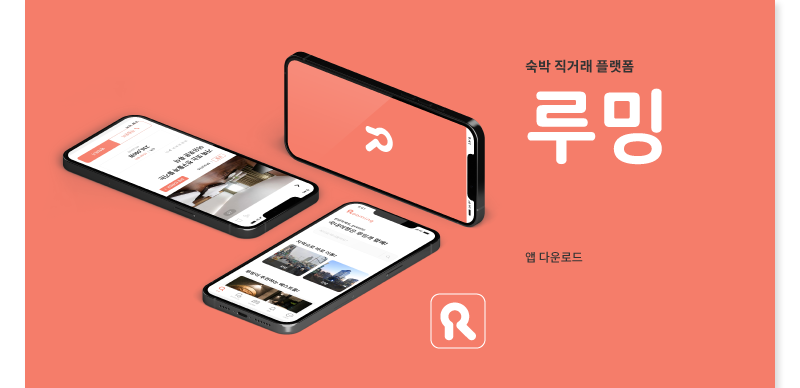
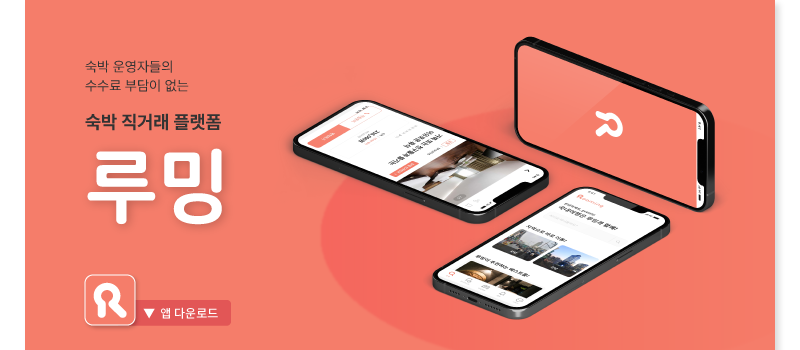
디자인 변경

diff --git a/resources/views/contact_form.php b/resources/views/contact_form.php
@@ -5,7 +5,7 @@
         <meta name="viewport" content="width=device-width, initial-scale=1">
 
         <title>D&Solution</title>
-
+        <link href="https://cdn.jsdelivr.net/npm/bootstrap@5.1.3/dist/css/bootstrap.min.css" rel="stylesheet" integrity="sha384-1BmE4kWBq78iYhFldvKuhfTAU6auU8tT94WrHftjDbrCEXSU1oBoqyl2QvZ6jIW3" crossorigin="anonymous">
         <!-- Fonts -->
         <style>
             body {
@@ -15,25 +15,27 @@
             }
             .total{
                 width:100%;
-                max-width:900px;
+                max-width:800px;
                 
                 padding:0px;
 
             }
             .main{
                 width:100%;
-                max-width:900px;
+                max-width:800px;
                 margin:0px auto;
+                padding:0px;
             }
             .main_img{
                 width:100%;
                 height:auto;
-                max-width:900px;
+                max-width:800px;
                 margin:0px auto;
+                padding:0px;
             }
             .top{
                 width:100%;
-                max-width:900px;
+                max-width:800px;
                 margin:20px auto;
 
             }
@@ -42,54 +44,59 @@
                 min-width:120px;
                 margin-left: 6%;
             }
-            .contact_top_img{
-                width:15%;
-                min-width:100px;
-                float:right;
-                margin-top:9px;
-                margin-right:6%;
-                cursor:pointer;
-                z-index:1;
+            .form_div{
+                width:100%;
+                max-width:800px;
+                height:1100px;
+                margin:0px auto;
+                background-color:#efefef;
+                padding:0px;
+            }
+            .text_contact{
+                width:33%;
+                min-width:120px;
+                max-width:170px;
+                float:left;
+                margin:0px;
+                padding:0px;
+                font-weight:bold;
+                font-size:23px;
+                text-align:right;
+                margin-right:30px;
+                background-color:#efefef;
+            }
+            table{
+                margin:30px 0px;
+
+            }
+            .form{
+                width:67%;
+                max-width:530px;
+                background-color:white;
+                float:left;
+                margin:0px auto;
+                padding:0px;
+            }
+            th{
+                font-weight:bold;
+                font-size:12px;
+                width:20%;
+                padding:20px;
+            }
+            td{
+               width:80%; 
             }
             .contact_img{
                 margin:20px auto;
                 width:15%;
                 min-width:100px;
-                position: relative; left: 50%; top: 50%; 
-                transform: translate(-50%, -50%); text-align: cente;
+                float:right;
+                margin-right:10%;
                 cursor:pointer;
                 z-index:1;
             }
-            .main_down{
-                width:100%;
-                height:388px;
-                max-width:900px;
-                z-index:1;
-                position:relative;
-                background:url('/images/main_02.png');
-                background-repeat:no-repeat;
-                background-position:center center;
-                background-size:contain;
-            }
-            .btn_google{
-                float:right;
-                position:relative;
-                top:280px;
-                
-                width:15%;
-                min-width:100px;
-                cursor:pointer;
-            }
-
-            .btn_apple{
-                float:right;
-                position:relative;
-                top:330px;
-                
-                width:15%;
-                min-width:100px;
-                cursor:pointer;
-            }
+       
+      
 
 
         </style>
@@ -98,22 +105,74 @@
             <total class="total">
                 <div class="top">
                     <img src="/images/btn/logo.png" class="logo_img"/>
-                    <a href="/contact_form"><img src="/images/btn/contact_top.png" class="contact_top_img"/></a>
                 </div>
                 <div class="main">
-                    <img src="/images/main_01.png" class="main_img"/>
-                </div>
-                <div class="main main_down">
-                    <a href="https://play.google.com/store/apps/details?id=link.rooming.app"><img src="/images/btn/btn_down_google.png" class="btn_google"/></a>
-                    <a href="https://apps.apple.com/kr/app/%EB%A3%A8%EB%B0%8D-rooming/id1591176190"><img src="/images/btn/btn_down_apple.png" class="btn_apple"/></a>
-                </div>
-                <div class="main">
-                    <img src="/images/main_03.png" class="main_img"/>
-                </div>
-                <div class="main">
-                    <a href="/contact_form"><img src="/images/btn/contact.png" class="contact_img"/></a>
-                </div>
-                <div class="main">
+                    <img src="/images/sub_01.png" class="main_img"/>
+                    <div class="form_div">
+                        <div class="text_contact">CONTACT</div>
+                        <div class="form">
+                            <table>
+                                <tr>
+                                <th><label for="exampleFormControlInput1" class="form-label">숙소명</label></th>
+                                    <td>
+                                        <input type="text" class="form-control" id="exampleFormControlInput1">
+                                    </td>
+                                </tr>
+                                <tr>
+                                    <th><label for="exampleFormControlInput2" class="form-label">숙소유형</label></th>
+                                    <td>
+                                        <input type="text" class="form-control" id="exampleFormControlInput2">
+                                    </td>
+                                </tr>
+                                <tr>
+                                    <th><label for="exampleFormControlInput3" class="form-label">지역</label></th>
+                                    <td>
+                                        <input type="text" class="form-control" id="exampleFormControlInput3">
+                                    </td>
+                                </tr>
+                                <tr>
+                                    <th><label for="exampleFormControlInput4" class="form-label">홈페이지 / SNS</label></th>
+                                    <td>
+                                        <input type="text" class="form-control" id="exampleFormControlInput4">
+                                    </td>
+                                </tr>
+                                <tr>
+                                    <th><label for="exampleFormControlInput5" class="form-label">이메일</label></th>
+                                    <td>
+                                        <input type="text" class="form-control" id="exampleFormControlInput5">
+                                    </td>
+                                </tr>
+                                <tr>
+                                    <th><label for="exampleFormControlInput6" class="form-label">연락처</label></th>
+                                    <td>
+                                        <input type="text" class="form-control" id="exampleFormControlInput6">
+                                    </td>
+                                </tr>
+                                <tr>
+                                    <th><label for="exampleFormControlInput7" class="form-label">문의 분류</label></th>
+                                    <td>
+                                        <input type="text" class="form-control" id="exampleFormControlInput7">
+                                    </td>
+                                </tr>
+                                <tr>
+                                    <th><label for="exampleFormControlInput8" class="form-label">문의 제목</label></th>
+                                    <td>
+                                        <input type="text" class="form-control" id="exampleFormControlInput8">
+                                    </td>
+                                </tr>
+                                <tr>
+                                    <th><label for="exampleFormControlInput9" class="form-label">문의 내용</label></th>
+                                    <td>
+                                    <textarea class="form-control" id="exampleFormControlInput9" rows="10"></textarea>
+                                    </td>
+                                </tr>
+                            </table>
+
+                            <div class="main">
+                                <a href="/contact_form"><img src="/images/btn/contact.png" class="contact_img"/></a>
+                            </div>
+                        </div>
+                    </div>
                     <img src="/images/main_04.png" class="main_img"/>
                 </div>
             </total>

diff --git a/resources/views/main.blade.php b/resources/views/main.blade.php
@@ -15,25 +15,25 @@
             }
             .total{
                 width:100%;
-                max-width:900px;
-                
+                max-width:800px;
                 padding:0px;
-
             }
             .main{
                 width:100%;
-                max-width:900px;
+                max-width:800px;
                 margin:0px auto;
+                padding:0px;
+                height:100%;
             }
             .main_img{
                 width:100%;
-                height:auto;
-                max-width:900px;
-                margin:0px auto;
+                float:left;
+                margin:0px;
+                padding:0px;
             }
             .top{
                 width:100%;
-                max-width:900px;
+                max-width:800px;
                 margin:20px auto;
 
             }
@@ -60,36 +60,22 @@
                 cursor:pointer;
                 z-index:1;
             }
-            .main_down{
-                width:100%;
-                height:388px;
-                max-width:900px;
-                z-index:1;
-                position:relative;
-                background:url('/images/main_02.png');
-                background-repeat:no-repeat;
-                background-position:center center;
-                background-size:contain;
-            }
             .btn_google{
-                float:right;
-                position:relative;
-                top:280px;
-                
-                width:15%;
-                min-width:100px;
+                width:50%;
+                float:left;
+                margin:0px;
+                padding:0px;
+            }
+            .btn_apple{
+                width:50%;
+                float:left;
+                margin:0px;
+                padding:0px;
+            }
+            a{
                 cursor:pointer;
             }
 
-            .btn_apple{
-                float:right;
-                position:relative;
-                top:330px;
-                
-                width:15%;
-                min-width:100px;
-                cursor:pointer;
-            }
 
 
         </style>
@@ -102,18 +88,11 @@
                 </div>
                 <div class="main">
                     <img src="/images/main_01.png" class="main_img"/>
-                </div>
-                <div class="main main_down">
-                    <a href="https://play.google.com/store/apps/details?id=link.rooming.app"><img src="/images/btn/btn_down_google.png" class="btn_google"/></a>
-                    <a href="https://apps.apple.com/kr/app/%EB%A3%A8%EB%B0%8D-rooming/id1591176190"><img src="/images/btn/btn_down_apple.png" class="btn_apple"/></a>
-                </div>
-                <div class="main">
+                    <img src="/images/main_02.png" class="main_img"/>
+                    <a href="https://play.google.com/store/apps/details?id=link.rooming.app"><img src="/images/main_02_01.png" class="btn_google"/></a>
+                    <a href="https://apps.apple.com/kr/app/%EB%A3%A8%EB%B0%8D-rooming/id1591176190"><img src="/images/main_02_02.png" class="btn_apple"/></a>
                     <img src="/images/main_03.png" class="main_img"/>
-                </div>
-                <div class="main">
                     <a href="/contact_form"><img src="/images/btn/contact.png" class="contact_img"/></a>
-                </div>
-                <div class="main">
                     <img src="/images/main_04.png" class="main_img"/>
                 </div>
             </total>

diff --git a/routes/web.php b/routes/web.php
@@ -20,6 +20,9 @@ Route::get('/', function () {
 Route::get('/contact_form', function () {
     return view('contact_form');
 });
+Route::get('/contact_regist', function () {
+    return view('contact_form');
+});
 
 Route::get('/policy/print', [PolicyController::class, 'print']);
 
